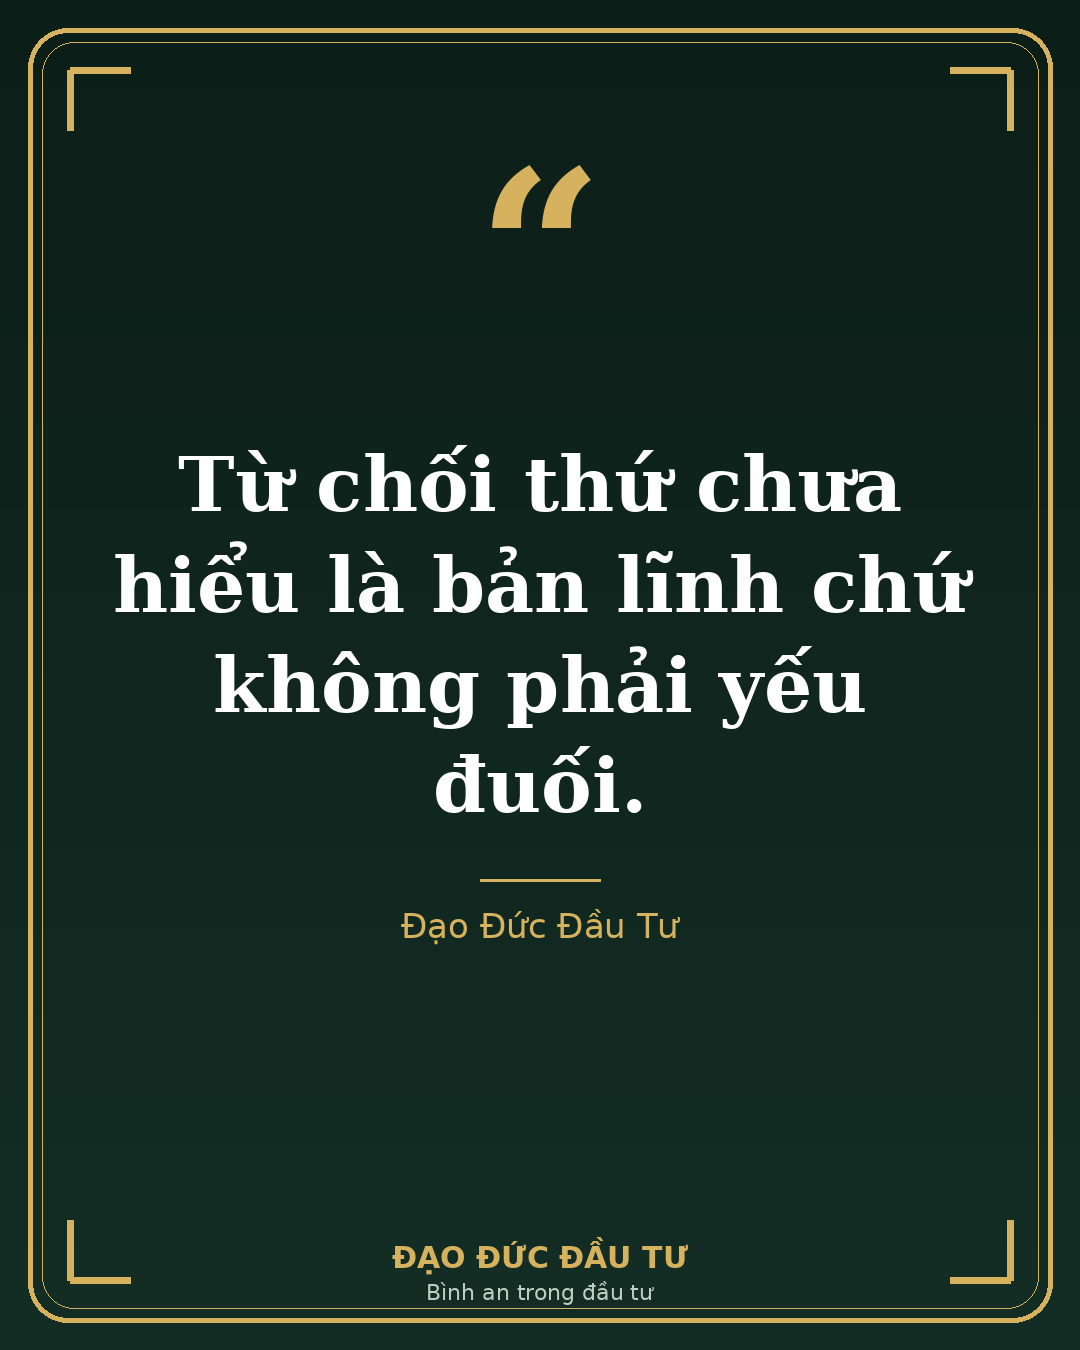
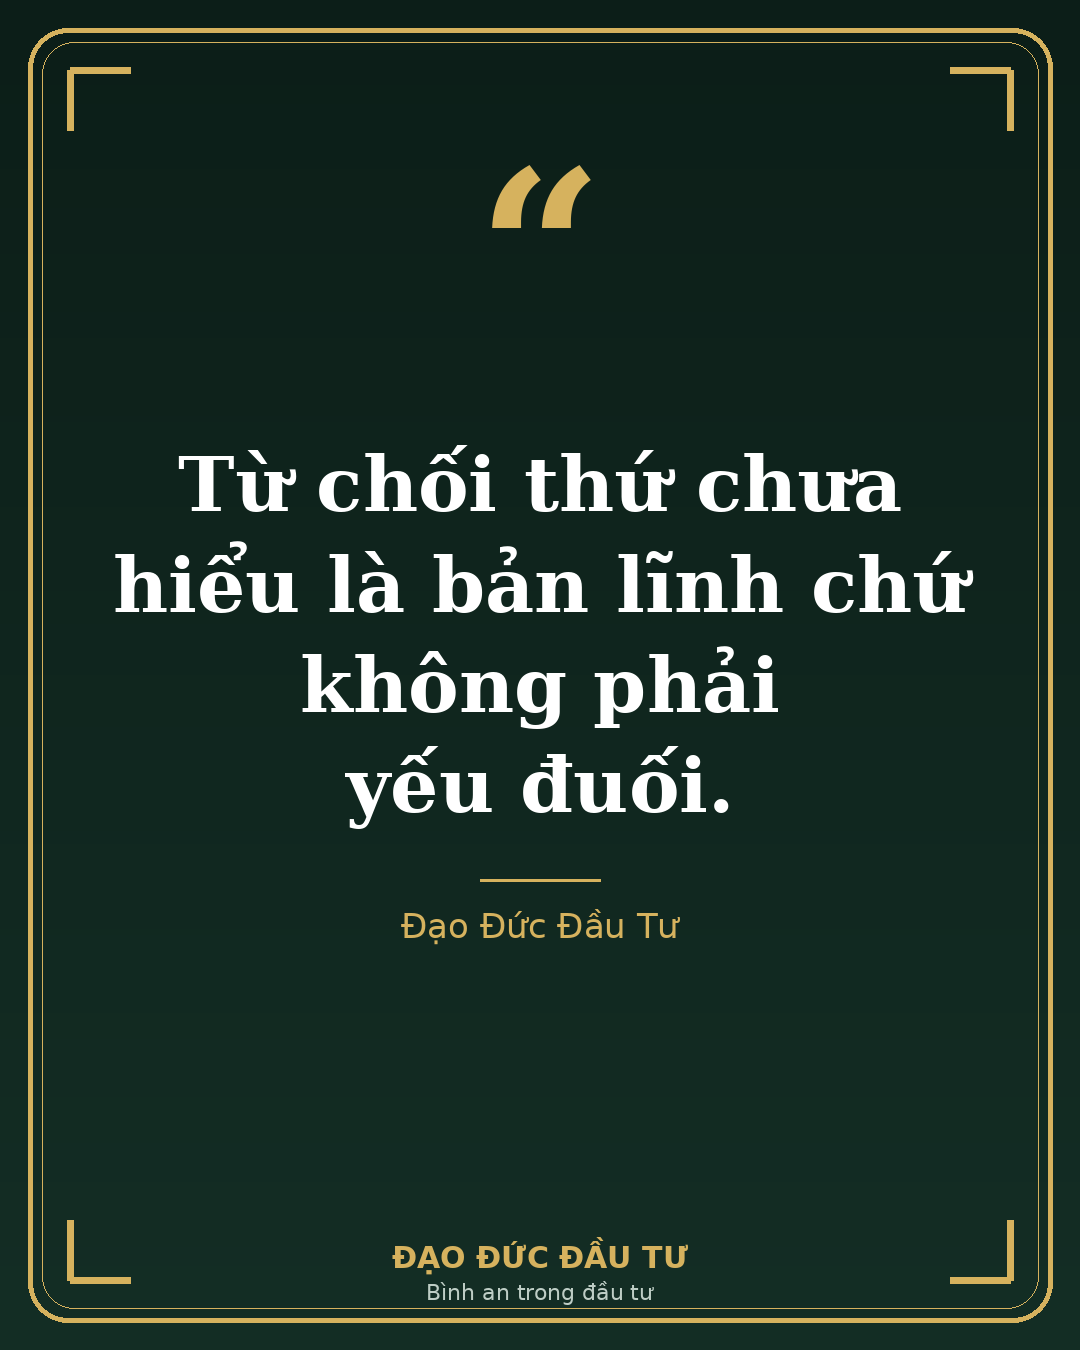
Week T-20261124 round 2 (fixes from Bao and Trang); avoid orphan words in images
Claude-Session: https://claude.ai/code/session_01KEiKUeocQmc7mgUWpmA2qz

Changed region(s): [[0.1833, 0.4667, 0.7944, 0.6222]]

diff --git a/fanpage/tools/tao_anh.py b/fanpage/tools/tao_anh.py
@@ -50,7 +50,10 @@ def wrap(d, text, font, maxw):
             lines.append(cur); cur = w
         else:
             cur = t
-    return lines + ([cur] if cur else [])
+    lines += [cur] if cur else []
+    if len(lines) >= 2 and len(lines[-1].split()) == 1 and len(lines[-2].split()) > 2:  # tránh 1 chữ rớt dòng
+        a = lines[-2].split(); lines[-2] = " ".join(a[:-1]); lines[-1] = a[-1] + " " + lines[-1]
+    return lines
 
 
 def fit(d, text, path, maxw, maxh, start=84, minsize=40, gap=1.32):
